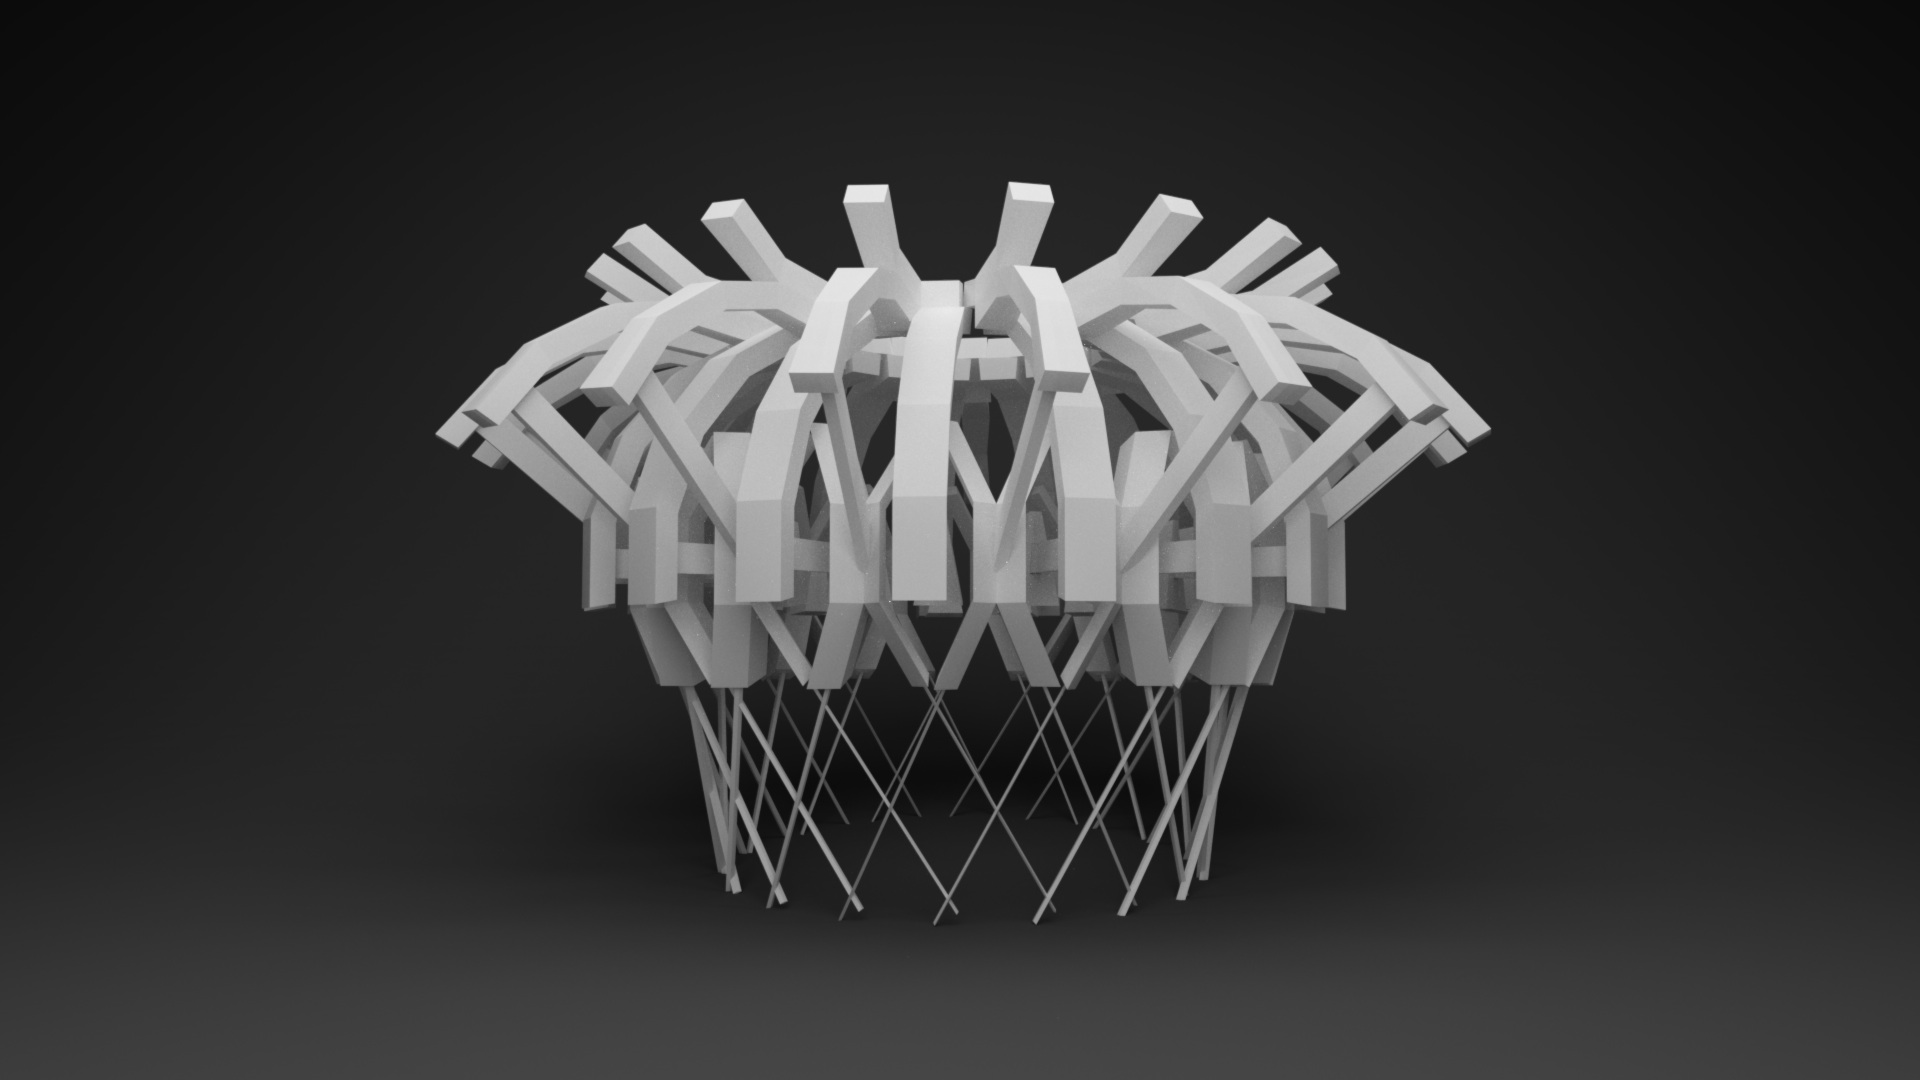
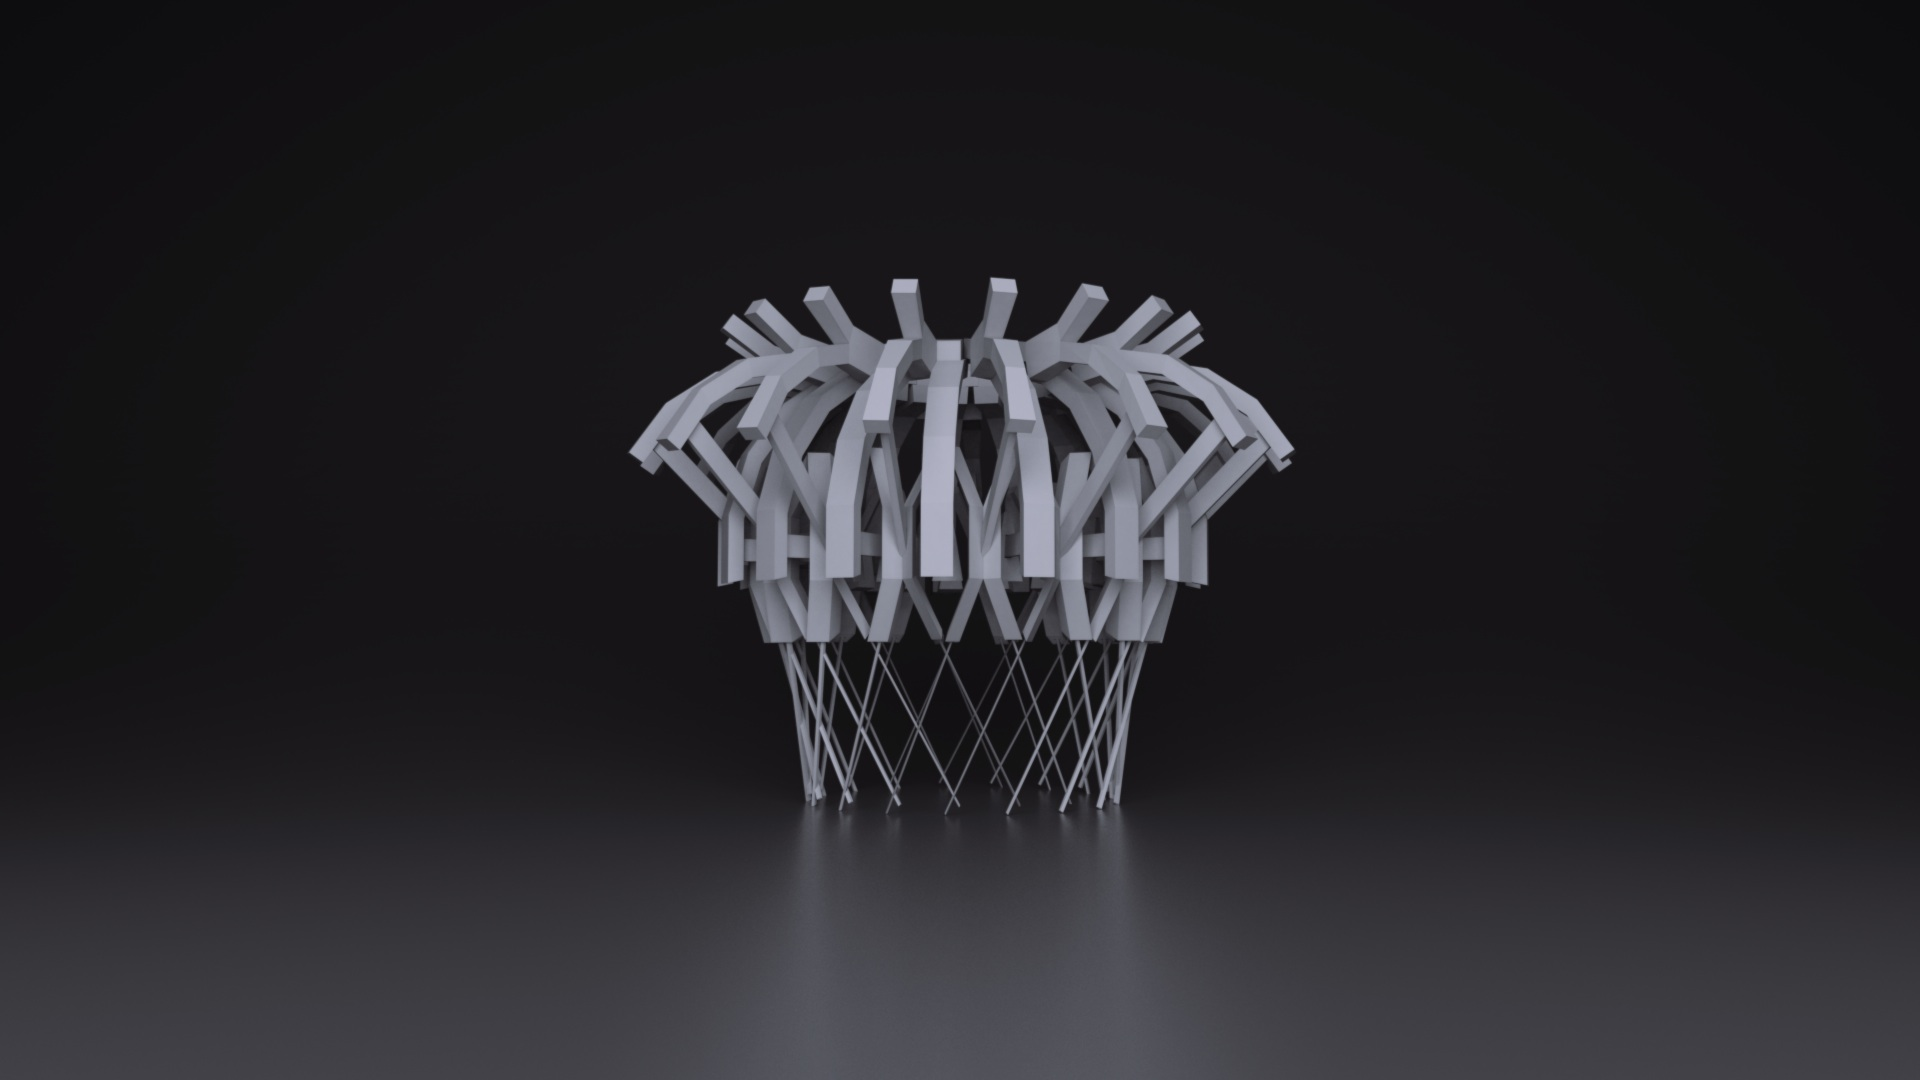
update tree node rendering logic & styles (using deselected state), add object credits placeholder to home page, update bg image, bugfix handle-tooltips init

Changed region(s): [[0.2188, 0.1528, 0.7812, 1.0]]

diff --git a/src-html/barbican.html b/src-html/barbican.html
@@ -25,7 +25,7 @@
                </g>
            </svg></a>
       </div> -->
-      <div class="flex-item center"><h1>CO(DE)FACTORY</h1></div>
+      <div class="flex-item center"><h1>Co(de)Factory</h1></div>
       <!-- <div class="flex-item"></div> -->
       <!--
           <div class="flex-item right icons">
@@ -64,7 +64,7 @@
       <section id="upgrade-browser" class="future" data-transition="concave">
         <div class="flex-container">
           <div id="upgrade-wrapper" class="flex-item flex-content">
-            <h1>THANKS FOR VISITING CO(DE)FACTORY!</h1>
+            <h1>Thanks for visiting Co(de)Factory!</h1>
             <div>
               <p>This experience has been optimized for Chrome & Firefox browsers on desktops, laptops & tablets.</p>
               <p>Please download one of these browsers to create your own Co(de)Factory sculpture.</p>
@@ -79,7 +79,7 @@
           <section id="login" class="future" data-transition="concave">
             <div class="flex-container">
               <div class="content center">
-                <h1>WELCOME TO CO(DE)FACTORY</h1>
+                <h1>Welcome to Co(de)Factory</h1>
                 <div class="subtitle">commissioned by Google and the Barbican</div>
                 <div>Co(de) Factory has granted Time Out readers exclusive access until Wednesday 2 July 21.00 BST for a chance to have their sculpture selected to be printed on Saturday 5 July, live at the DevArt gallery in the Digital Revolution Exhibition at the Barbican.</div>
                 <div>Go to <a href="timeout.com/devart">timeout.com/devart</a> to generate the access code and read the competition terms and conditions.<br/>Please ensure you have filled out the form on the Time Out page so Time Out can match your Code Factory 'Author name' with your contact details.</div>
@@ -95,13 +95,16 @@
 
       <section id="home" class="future" data-transition="concave">
         <div class="flex-container">
-          <div class="flex-item flex-content">
-            <h1>CREATE A PIECE OF ART USING CODE</h1>
-            <div class="credits">
-              <p>Currently printing at the Barbican:</p>
-              <span id="credits-title">Desert Rose</span>
-              <span id="credits-author">Anonymous</span>
-              <span id="credits-date">2014-07-25</span>
+          <div class="flex-item">
+            <div class="wrapper">
+              <div class="flex-item flex-content"><h2>Co(de)Factory</h2></div>
+              <div class="flex-item flex-content"><h1>Create a piece of art using code</h1></div>
+              <div class="credits flex-item flex-content">
+                <p>Currently printing at the Barbican:</p>
+                <span id="credits-title">Desert Rose</span>
+                <span id="credits-author">Anonymous</span>
+                <span id="credits-date">2014-07-25</span>
+              </div>
             </div>
           </div>
           <div class="flex-item buttonbar">
@@ -142,7 +145,7 @@
             </div>
           </div>
         </div>
-        <div id="seed-overlay" class="overlay"><h1>SELECT START SHAPE</h1></div>
+        <div id="seed-overlay" class="overlay"><h1>Select start shape</h1></div>
         <a id="seed-left" class="overlay" href="#"><svg width="80" height="80" viewbox="0 0 1 1"><g fill="none" stroke="#fff" stroke-width="0.05"><path d="M0.8,0.2 L0.5,0.5 L0.8,0.8"/></g></svg></a>
         <a id="seed-right" class="overlay" href="#"><svg width="80" height="80" viewbox="0 0 1 1"><g fill="none" stroke="#fff" stroke-width="0.05"><path d="M0.2,0.2 L0.5,0.5 L0.2,0.8"/></g></svg></a>
         <div class="overlay tools-extra"></div>
@@ -233,13 +236,15 @@
       <section id="submit-form" class="future" data-transition="concave">
         <div class="flex-container">
           <div id="submit-form-wrapper" class="flex-item flex-content">
-            <h1>SUBMIT YOUR ARTWORK</h1>
-            <form id="submit-art-form">
-              <p><input type="text" placeholder="ARTWORK TITLE" name="title" maxlength="16"/></p>
-              <p><input type="text" placeholder="AUTHOR NAME" name="author" maxlength="16"/></p>
-              <p><input id="bt-submit" type="submit" value="SUBMIT"/></p>
-            </form>
-            <div>By clicking 'Submit' your sculpture will be entered into the Co(de)Factory gallery and will be put forward to the Digital Revolution curator for a chance to be printed and displayed in the Digital Revolution exhibition.</div>
+            <div>
+              <h1>Submit to gallery</h1>
+              <form id="submit-art-form">
+                <p><input type="text" placeholder="ARTWORK TITLE" name="title" maxlength="16"/></p>
+                <p><input type="text" placeholder="AUTHOR NAME" name="author" maxlength="16"/></p>
+                <p class="disclaimer">By clicking 'Submit' your sculpture will be entered into the Co(de)Factory gallery and will be put forward to the Digital Revolution curator for a chance to be printed and displayed in the Digital Revolution exhibition.</p>
+                <p><input id="bt-submit" type="submit" value="SUBMIT"/></p>
+              </form>
+            </div>
           </div>
           <div class="flex-item buttonbar">
             <div class="inner">
@@ -254,7 +259,7 @@
       <section id="submit-confirm" class="future" data-transition="concave">
         <div class="flex-container">
           <div id="thanks-wrapper" class="flex-item flex-content">
-            <h1>THANK YOU FOR TAKING PART!</h1>
+            <h1>Thank you for taking part!</h1>
             <div>
               <p class="noprint">Your artwork has been received.</p>
               <p class="noprint">We keep our fingers crossed that your piece will be chosen to be printed here at the Barbican!</p>

diff --git a/src-less/viz.less b/src-less/viz.less
@@ -164,6 +164,32 @@ div.tool {
     flex: 1 0 auto;
 }
 
+.viz-op(@class; @col) {
+    &.@{class} { background-color: @col; }
+    &.@{class}:hover { background-color: lighten(@col,20); }
+    &.@{class}.deselected {
+        color: @col;
+        span {
+            display: block;
+            background: @col-bg;
+            margin: 2px;
+        }
+    }
+}
+
+.depth2 .deselected span { padding: 50px 0; }
+.depth3 .deselected span { padding: 31px 0; }
+.depth4 .deselected span { padding: 19px 0; }
+.depth5 .deselected span { padding: 13px 0; }
+.depth6 .deselected span { padding: 9px 0; }
+.depth7 .deselected span { padding: 6px 0; }
+.depth8 .deselected span { padding: 4px 0; }
+.depth9 .deselected span { padding: 2px 0; }
+.depth10 .deselected span { padding: 1px 0; }
+.depth11 .deselected span { padding: 0 0; }
+.depth12 .deselected span { padding: 2px 0; font-size: 11px; line-height: 11px; }
+.depth13 .deselected span { padding: 2px 0; font-size: 11px; line-height: 11px; }
+
 #viz-container {
 
     width: 100%;
@@ -184,53 +210,20 @@ div.tool {
         text-align: center;
         color: @col-bg;
 
-        &.op-sd { background-color: @op-col-sd; }
-        &.op-inset { background-color: @op-col-inset; }
-        &.op-stretch { background-color: @op-col-stretch; }
-        &.op-reflect { background-color: @op-col-reflect; }
-        &.op-shift { background-color: @op-col-shift; }
-        &.op-tilt { background-color: @op-col-tilt; }
-        &.op-scale { background-color: @op-col-scale; }
-        &.op-delete { background-color: @op-col-delete; }
-        &.op-leaf { background-color: @op-col-leaf; color: #333; }
-
-        &.op-sd:hover { background-color: lighten(@op-col-sd,10); }
-        &.op-inset:hover { background-color: lighten(@op-col-inset,10); }
-        &.op-stretch:hover { background-color: lighten(@op-col-stretch,10); }
-        &.op-reflect:hover { background-color: lighten(@op-col-reflect,10); }
-        &.op-shift:hover { background-color: lighten(@op-col-shift,10); }
-        &.op-tilt:hover { background-color: lighten(@op-col-tilt,10); }
-        &.op-scale:hover { background-color: lighten(@op-col-scale,10); }
-        &.op-delete:hover { background-color: lighten(@op-col-delete,10); }
-        &.op-leaf:hover { background-color: lighten(@op-col-leaf,10); }
-
-        &.op-sd.deselected { background-color: darken(@op-col-sd,30); color: @op-col-sd;}
-        &.op-inset.deselected { background-color: darken(@op-col-inset,30); color: @op-col-inset; }
-        &.op-stretch.deselected { background-color: darken(@op-col-stretch,30); color: @op-col-stretch; }
-        &.op-reflect.deselected { background-color: darken(@op-col-reflect,30); color: @op-col-reflect; }
-        &.op-shift.deselected { background-color: darken(@op-col-shift,30); color: @op-col-shift; }
-        &.op-tilt.deselected { background-color: darken(@op-col-tilt,30); color: @op-col-tilt; }
-        &.op-scale.deselected { background-color: darken(@op-col-scale,30); color: @op-col-scale; }
-        &.op-delete.deselected { background-color: darken(@op-col-delete,30); color: @op-col-delete; }
-        &.op-leaf.deselected { background-color: darken(@op-col-leaf,30); color: @op-col-leaf; }
-
-        &.op-sd.deselected:hover { background-color: darken(@op-col-sd,20); color: @op-col-sd;}
-        &.op-inset.deselected:hover { background-color: darken(@op-col-inset,20); color: @op-col-inset; }
-        &.op-stretch.deselected:hover { background-color: darken(@op-col-stretch,20); color: @op-col-stretch; }
-        &.op-reflect.deselected:hover { background-color: darken(@op-col-reflect,20); color: @op-col-reflect; }
-        &.op-shift.deselected:hover { background-color: darken(@op-col-shift,20); color: @op-col-shift; }
-        &.op-tilt.deselected:hover { background-color: darken(@op-col-tilt,20); color: @op-col-tilt; }
-        &.op-scale.deselected:hover { background-color: darken(@op-col-scale,20); color: @op-col-scale; }
-        &.op-delete.deselected:hover { background-color: darken(@op-col-delete,20); color: @op-col-delete; }
-        &.op-leaf.deselected:hover { background-color: darken(@op-col-leaf,20); color: @op-col-leaf; }
+        .viz-op(op-sd; @op-col-sd);
+        .viz-op(op-inset; @op-col-inset);
+        .viz-op(op-stretch; @op-col-stretch);
+        .viz-op(op-reflect; @op-col-reflect);
+        .viz-op(op-shift; @op-col-shift);
+        .viz-op(op-tilt; @op-col-tilt);
+        .viz-op(op-scale; @op-col-scale);
+        .viz-op(op-leaf; @op-col-leaf);
 
         &.op-root {
             background-color: transparent !important;
             color: @col-bt-continue !important;
             border: 2px solid @border-col;
         }
-
-        //&.deselected { color: #fff !important; }
 
         h1 { margin: 0; padding: 0 10px; }
 
@@ -241,6 +234,11 @@ div.tool {
                 stroke-width: 2px;
                 vector-effect: non-scaling-stroke;
             }
+        }
+
+        &.op-delete.selected {
+            background-color: darken(@op-col-leaf,30);
+            svg { stroke: @op-col-leaf; }
         }
     }
 }

diff --git a/src-less/main.less b/src-less/main.less
@@ -23,14 +23,20 @@ body {
     user-select: none;
 }
 
-h1 {
+h1, h2 {
     font-weight: 400;
     line-height: 1;
+    text-transform: uppercase;
 }
+
+h1 { font-size: 360%; }
+h2 { font-size: 180%; }
 
 .hidden { display: none !important; }
 .center { text-align: center; }
 .right { text-align: right; }
+
+.disclaimer { margin: 2em 0; }
 
 .overlay {
     position: fixed;
@@ -122,10 +128,15 @@ a:hover { color: lighten(@op-col-sd,10); }
     background-size: cover;
     background-position: center;
 
-    div.credits {
-        margin-top: 100px;
+    .flex-content>div { max-width: 95% !important; }
 
+    div.credits {
         span { display: block; }
+    }
+
+    .wrapper {
+        .flex(column nowrap);
+        height: 90%;
     }
 }
 

diff --git a/src-less/config.less b/src-less/config.less
@@ -8,7 +8,7 @@
 @op-col-stretch:  #40a6f0;
 @op-col-shift:    #b8c400;
 @op-col-leaf:     #dddddd;
-@op-col-delete:   #aaaaaa;
+@op-col-delete:   #999999;
 @op-col-undo:     #aaaaaa;
 @op-col-disabled: #666;
 
@@ -43,3 +43,4 @@
 @tool-size: 65px;
 
 @margin: 10px;
+@gap: 2px;
